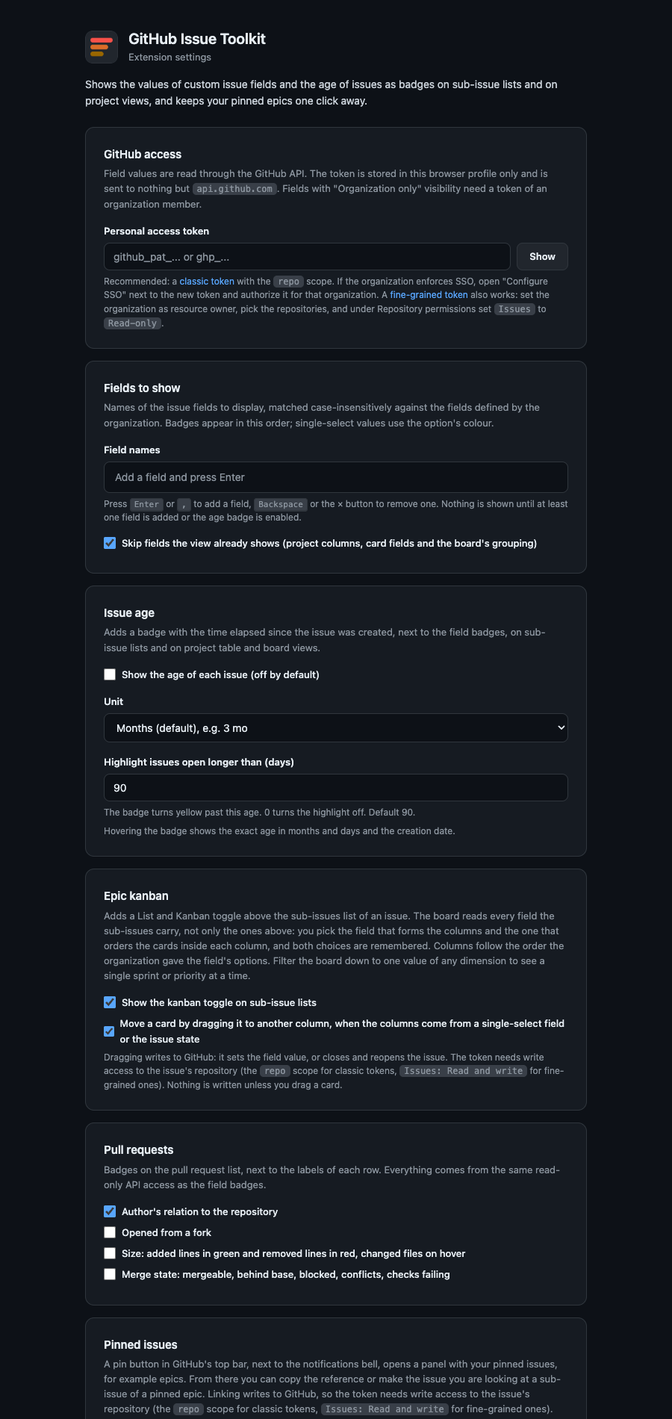
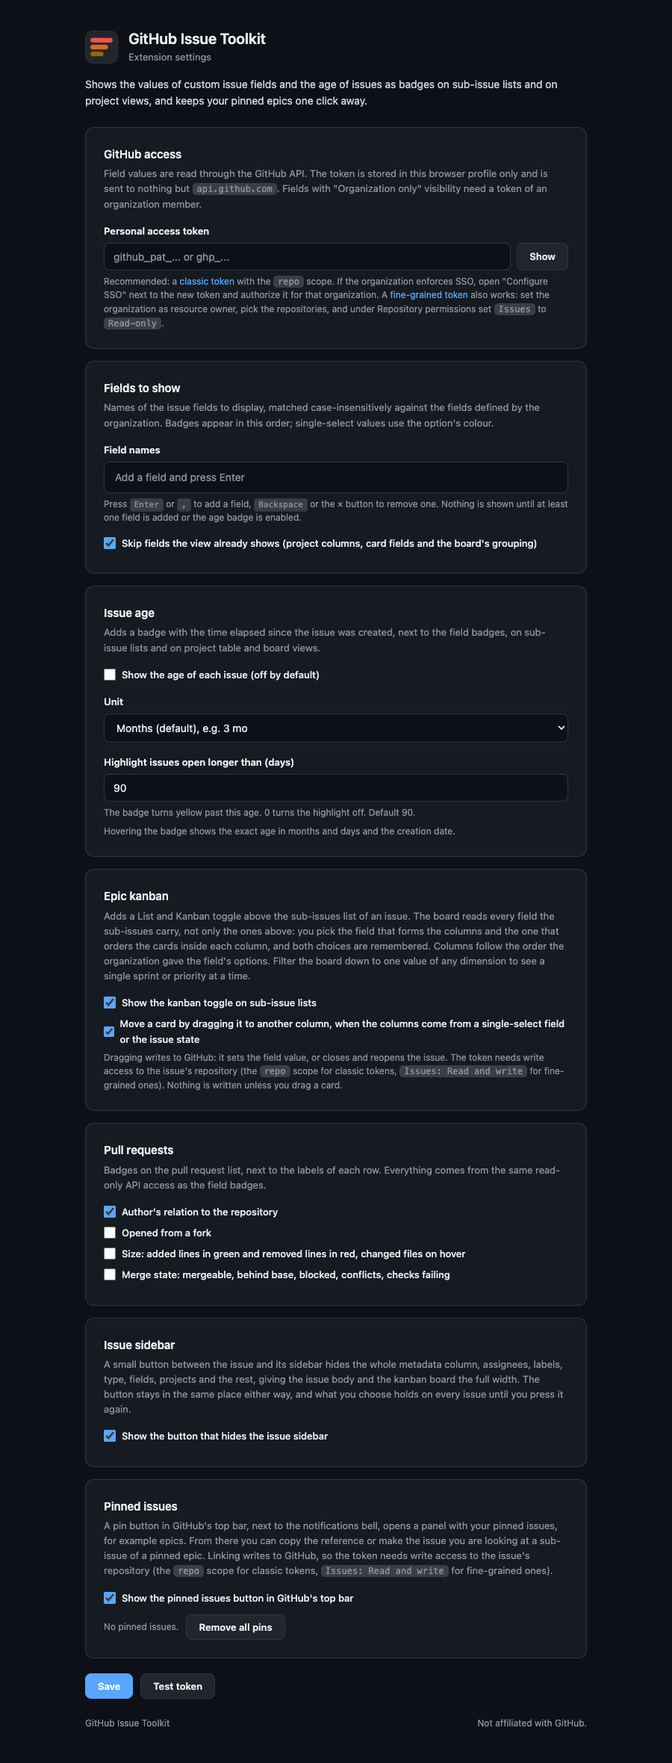
feat(sidebar): a button that hides the issue sidebar
An issue's metadata column is 296 pixels of assignees, labels, type, ten custom fields and projects, and it is in the way when the issue itself is what you came to read, all the more with a kanban board under it. A chevron in the gutter between the two folds it away, and folds it back, on every issue until you say otherwise.

- Insert a rail between GitHub's content area and its metadata column, both flex items of one row, so the button keeps its place whether the sidebar is there or not.
- Hide the column with `display: none`, which is what GitHub itself does when its artifacts panel opens, and let its content area grow into the space on its own.
- Remember the choice in `chrome.storage.local`: every issue and every tab opens the way you left it.
- Leave the narrow layout alone, where GitHub already stacks the sidebar under the issue and folding it away would gain nothing, and follow the window across a resize.
- Add an Issue sidebar card to the settings page, on by default.
- Raise the height the settings screenshots are rendered at to 2360, since the page has outgrown 1900 and the last cards were cut off.

Changed region(s): [[0.1244, 0.0, 0.84, 1.0]]

diff --git a/content.js b/content.js
@@ -10,7 +10,7 @@
   const pending = new Set();
   let scheduled = null;
   let noticeShown = false;
-  let settings = { ageEnabled: false, ageUnit: "months", ageWarnDays: 90, pinsEnabled: true, skipShownFields: true, prAssociation: true, prFork: false, prSize: false, prMergeState: false, kanbanEnabled: true, kanbanDrag: true };
+  let settings = { ageEnabled: false, ageUnit: "months", ageWarnDays: 90, pinsEnabled: true, skipShownFields: true, prAssociation: true, prFork: false, prSize: false, prMergeState: false, kanbanEnabled: true, kanbanDrag: true, sidebarToggle: true };
   const prCache = new Map(); // "owner/repo!n" -> { at, info }
   const prPending = new Set();
   let pins = [];
@@ -302,6 +302,7 @@
     scheduled = null;
     syncPanel();
     syncKanban();
+    syncSidebar();
     scanPulls().catch((err) => console.warn("[github-issue-toolkit]", err));
     const rows = collectRows();
     if (!rows.length) return;
@@ -1197,6 +1198,78 @@
   }
 
   // ---------------------------------------------------------------------------
+  // Issue sidebar: a button that hides the metadata column
+  // ---------------------------------------------------------------------------
+
+  // The metadata column of the issue page, and the flex row holding it next to the issue itself.
+  const SIDEBAR_COLUMN = '[data-testid="issue-viewer-metadata-container"]';
+  const CHEVRON_RIGHT = "M6.22 3.22a.75.75 0 0 1 1.06 0l4.25 4.25a.75.75 0 0 1 0 1.06l-4.25 4.25a.751.751 0 0 1-1.042-.018.751.751 0 0 1-.018-1.042L9.94 8 6.22 4.28a.75.75 0 0 1 0-1.06Z";
+  const CHEVRON_LEFT = "M9.78 12.78a.75.75 0 0 1-1.06 0L4.47 8.53a.75.75 0 0 1 0-1.06l4.25-4.25a.751.751 0 0 1 1.042.018.751.751 0 0 1 .018 1.042L6.06 8l3.72 3.72a.75.75 0 0 1 0 1.06Z";
+
+  let sidebarCollapsed = false;
+  let railParts = null;
+
+  function chevronIcon(collapsed) {
+    const svg = document.createElementNS("http://www.w3.org/2000/svg", "svg");
+    svg.setAttribute("viewBox", "0 0 16 16");
+    svg.setAttribute("aria-hidden", "true");
+    svg.setAttribute("class", "gsf-sidebar-chevron");
+    const path = document.createElementNS("http://www.w3.org/2000/svg", "path");
+    path.setAttribute("d", collapsed ? CHEVRON_LEFT : CHEVRON_RIGHT);
+    svg.appendChild(path);
+    return svg;
+  }
+
+  function buildRail() {
+    const rail = document.createElement("div");
+    rail.className = "gsf-sidebar-rail";
+    const button = document.createElement("button");
+    button.type = "button";
+    button.className = "gsf-sidebar-toggle";
+    button.addEventListener("click", () => {
+      sidebarCollapsed = !sidebarCollapsed;
+      api.storage.local.set({ sidebarCollapsed });
+      syncSidebar();
+    });
+    rail.appendChild(button);
+    railParts = { rail, button };
+    return rail;
+  }
+
+  function renderRail(sidebar) {
+    const { button } = railParts;
+    button.textContent = "";
+    button.appendChild(chevronIcon(sidebarCollapsed));
+    button.title = sidebarCollapsed ? "Show the issue sidebar" : "Hide the issue sidebar";
+    button.setAttribute("aria-label", button.title);
+    button.setAttribute("aria-expanded", String(!sidebarCollapsed));
+    sidebar.classList.toggle("gsf-sidebar-hidden", sidebarCollapsed);
+  }
+
+  function unmountRail(sidebar) {
+    if (railParts && railParts.rail.isConnected) railParts.rail.remove();
+    if (sidebar) sidebar.classList.remove("gsf-sidebar-hidden");
+  }
+
+  // The button lives in a rail of its own between the issue and the sidebar, so it stays in the same place
+  // whether the sidebar is there or not. Only the wide layout has the two side by side; stacked, it is skipped.
+  function syncSidebar() {
+    const sidebar = refFromPath(location.pathname) ? document.querySelector(SIDEBAR_COLUMN) : null;
+    if (!settings.sidebarToggle || !sidebar || !sidebar.parentElement) {
+      unmountRail(sidebar || document.querySelector(SIDEBAR_COLUMN));
+      return;
+    }
+    const row = getComputedStyle(sidebar.parentElement);
+    if (row.display !== "flex" || row.flexDirection !== "row") {
+      unmountRail(sidebar);
+      return;
+    }
+    if (!railParts) buildRail();
+    if (railParts.rail.nextElementSibling !== sidebar) sidebar.parentElement.insertBefore(railParts.rail, sidebar);
+    renderRail(sidebar);
+  }
+
+  // ---------------------------------------------------------------------------
   // Pinned issues panel
   // ---------------------------------------------------------------------------
 
@@ -1669,7 +1742,7 @@
   }
 
   // Everything this extension adds to the page, so its own mutations never schedule another scan.
-  const OURS = ["gsf-badge", "gsf-badges", "gsf-notice", "gsf-pins", "gsf-pins-header-btn", "gsf-kanban", "gsf-kanban-bar"];
+  const OURS = ["gsf-badge", "gsf-badges", "gsf-notice", "gsf-pins", "gsf-pins-header-btn", "gsf-kanban", "gsf-kanban-bar", "gsf-sidebar-rail"];
   const OURS_SELECTOR = OURS.map((name) => `.${name}`).join(", ");
 
   const observer = new MutationObserver((mutations) => {
@@ -1686,6 +1759,7 @@
   });
   observer.observe(document.documentElement, { childList: true, subtree: true });
   window.addEventListener("popstate", schedule);
+  window.addEventListener("resize", schedule);
 
   api.storage.onChanged.addListener((changes, area) => {
     if (area !== "local") return;
@@ -1700,6 +1774,11 @@
       if (changes.ageUnit) settings.ageUnit = changes.ageUnit.newValue || "months";
       clearBadges();
       schedule();
+    }
+    if (changes.sidebarToggle || changes.sidebarCollapsed) {
+      if (changes.sidebarToggle) settings.sidebarToggle = changes.sidebarToggle.newValue !== false;
+      if (changes.sidebarCollapsed) sidebarCollapsed = changes.sidebarCollapsed.newValue === true;
+      syncSidebar();
     }
     if (changes.kanbanEnabled || changes.kanbanDrag) {
       if (changes.kanbanEnabled) settings.kanbanEnabled = changes.kanbanEnabled.newValue !== false;
@@ -1724,7 +1803,7 @@
     }
   });
 
-  api.storage.local.get(["ageEnabled", "ageUnit", "ageWarnDays", "pinsEnabled", "skipShownFields", "prAssociation", "prFork", "prSize", "prMergeState", "pins", "kanbanEnabled", "kanbanDrag", "kanban"]).then((stored) => {
+  api.storage.local.get(["ageEnabled", "ageUnit", "ageWarnDays", "pinsEnabled", "skipShownFields", "prAssociation", "prFork", "prSize", "prMergeState", "pins", "kanbanEnabled", "kanbanDrag", "kanban", "sidebarToggle", "sidebarCollapsed"]).then((stored) => {
     settings.ageWarnDays = Number.isFinite(Number(stored.ageWarnDays)) && stored.ageWarnDays !== undefined ? Number(stored.ageWarnDays) : 90;
     settings.skipShownFields = stored.skipShownFields !== false;
     settings.prAssociation = stored.prAssociation !== false;
@@ -1736,6 +1815,8 @@
     settings.pinsEnabled = stored.pinsEnabled !== false;
     settings.kanbanEnabled = stored.kanbanEnabled !== false;
     settings.kanbanDrag = stored.kanbanDrag !== false;
+    settings.sidebarToggle = stored.sidebarToggle !== false;
+    sidebarCollapsed = stored.sidebarCollapsed === true;
     kanban = { ...kanban, ...(stored.kanban || {}) };
     pins = Array.isArray(stored.pins) ? stored.pins : [];
     lastHref = null;

diff --git a/docs/index.html b/docs/index.html
@@ -374,6 +374,7 @@
         <div class="card"><h3>Issue age, if you want it</h3><p>An optional gray badge shows how long ago each issue was created, in months, weeks or days, and turns yellow once an issue has been open longer than a threshold you set, 90 days by default. Off by default, one checkbox in the settings.</p></div>
         <div class="card"><h3>Pull request badges</h3><p>On the pull request list and on Projects views that contain pull requests: whether the author is a first-time contributor, external, a contributor, a collaborator, a member or a bot, plus optional badges for forks, size and merge state.</p></div>
         <div class="card"><h3>Epics as a board</h3><p>An issue with sub-issues gets a List and Kanban toggle. The board groups the sub-issues by any field they carry, orders each column by another, and filters everything down to one value of a third. Drag a card to another column and the field value, or the issue state, is written back to GitHub.</p></div>
+        <div class="card"><h3>Sidebar out of the way</h3><p>A chevron in the gutter hides an issue's whole metadata column, and the issue body and the board take the width. It holds on every issue until you press it again.</p></div>
         <div class="card"><h3>Pinned epics</h3><p>A pin button in GitHub's top bar keeps your epics one click away: copy their reference, or make the issue you are looking at a sub-issue of one. Optional as well.</p></div>
         <div class="card"><h3>Clickable</h3><p>Each badge links to the repository's issue search filtered by that field value, the same way GitHub's own field badges do.</p></div>
         <div class="card"><h3>Looks native</h3><p>Badges reuse GitHub's own colour tokens, so they match light and dark themes and every colour blindness setting GitHub offers.</p></div>
@@ -568,7 +569,7 @@
   <section id="settings">
     <div class="wrap">
       <h2>Settings</h2>
-      <p class="muted">The token and the fields to show are the two essentials; the age badge, the pull request badges, the epic kanban toggle and the pinned issues button are optional extras with their own cards. Each field is a chip. Press <kbd>Enter</kbd> or <kbd>,</kbd> to add one, <kbd>Backspace</kbd> or the × button to remove one. Names are matched case-insensitively against the fields your organization defines, and badges appear in the order of the chips. Nothing is shown until at least one field is added or the age badge is enabled.</p>
+      <p class="muted">The token and the fields to show are the two essentials; the age badge, the pull request badges, the epic kanban toggle, the sidebar button and the pinned issues button are optional extras with their own cards. Each field is a chip. Press <kbd>Enter</kbd> or <kbd>,</kbd> to add one, <kbd>Backspace</kbd> or the × button to remove one. Names are matched case-insensitively against the fields your organization defines, and badges appear in the order of the chips. Nothing is shown until at least one field is added or the age badge is enabled.</p>
       <figure>
         <img class="only-light" src="settings-light.png" alt="The settings page: token input and the field names chip box">
         <img class="only-dark" src="settings-dark.png" alt="The settings page in dark mode: token input and the field names chip box">
@@ -610,6 +611,7 @@
       <details><summary>Can I move a card on the kanban board?</summary><p>Yes, when the columns come from a single-select field or from the issue state: dragging a card writes the new field value, or closes and reopens the issue, through the GitHub API. Dropping it in the "No <em>field</em>" column clears the value. Columns made of types or assignees are not drop targets, and cards there cannot be dragged. Dragging needs a token with write access; it can be switched off in the settings, and nothing is ever written unless you drag.</p></details>
       <details><summary>Can I see only one sprint, or only the P1 issues?</summary><p>Yes. The Filter control keeps one value of any dimension, the same ones the columns can be made of, and the count in the toolbar says how many of the epic's sub-issues are left. Filtering happens in the page, so the columns stay as they are and switching back costs nothing.</p></details>
       <details><summary>The kanban board says the epic has more sub-issues than it shows.</summary><p>The board loads up to 500 sub-issues, in pages of 100. Beyond that the count in the toolbar reads "500 of 640" and the rest is left out.</p></details>
+      <details><summary>Where does the sidebar go when I hide it?</summary><p>Nowhere: the extension sets <code>display: none</code> on GitHub's metadata column, the same thing GitHub does when its own artifacts panel opens, and its content area grows into the space by itself. The chevron stays in the gutter, so pressing it again brings the sidebar straight back. Nothing is changed on GitHub's side and nothing is sent anywhere.</p></details>
       <details><summary>Does linking need extra permissions?</summary><p>Yes. Making an issue a sub-issue of a pinned epic writes to GitHub, so the token needs write access to the issue's repository: the <code>repo</code> scope on a classic token, or <code>Issues: Read and write</code> on a fine-grained one. Badges alone work with read-only access.</p></details>
       <details><summary>Sub-issues live in several repositories. Does that work?</summary><p>Yes. Rows are grouped by repository and fetched in one query. Each badge links to the search in its own repository.</p></details>
       <details><summary>A field shows no badge on some rows.</summary><p>Those issues simply have no value for that field. Check the field name on the settings page matches the organization's field name; matching is case-insensitive but the full name must match.</p></details>

diff --git a/options.js b/options.js
@@ -10,6 +10,7 @@ const pinsEnabledInput = document.getElementById("pins-enabled");
 const skipShownInput = document.getElementById("skip-shown");
 const kanbanEnabledInput = document.getElementById("kanban-enabled");
 const kanbanDragInput = document.getElementById("kanban-drag");
+const sidebarToggleInput = document.getElementById("sidebar-toggle");
 const prInputs = {
   prAssociation: document.getElementById("pr-association"),
   prFork: document.getElementById("pr-fork"),
@@ -100,7 +101,7 @@ if (hasChrome) {
     setStatus(ok ? "Access to github.com granted." : "Access was not granted.", ok);
     refreshAccess();
   });
-  api.storage.local.get(["token", "fields", "ageEnabled", "ageUnit", "ageWarnDays", "pinsEnabled", "skipShownFields", "kanbanEnabled", "kanbanDrag", "prAssociation", "prFork", "prSize", "prMergeState", "pins"]).then((stored) => {
+  api.storage.local.get(["token", "fields", "ageEnabled", "ageUnit", "ageWarnDays", "pinsEnabled", "skipShownFields", "kanbanEnabled", "kanbanDrag", "sidebarToggle", "prAssociation", "prFork", "prSize", "prMergeState", "pins"]).then((stored) => {
     tokenInput.value = stored.token || "";
     fields = parseFields(stored.fields);
     renderChips();
@@ -109,6 +110,7 @@ if (hasChrome) {
     skipShownInput.checked = stored.skipShownFields !== false;
     kanbanEnabledInput.checked = stored.kanbanEnabled !== false;
     kanbanDragInput.checked = stored.kanbanDrag !== false;
+    sidebarToggleInput.checked = stored.sidebarToggle !== false;
     prInputs.prAssociation.checked = stored.prAssociation !== false;
     prInputs.prFork.checked = stored.prFork === true;
     prInputs.prSize.checked = stored.prSize === true;
@@ -132,6 +134,7 @@ if (hasChrome) {
   skipShownInput.checked = true;
   kanbanEnabledInput.checked = true;
   kanbanDragInput.checked = true;
+  sidebarToggleInput.checked = true;
   prInputs.prAssociation.checked = true;
   ageWarn.value = 90;
 }
@@ -147,7 +150,7 @@ document.getElementById("save").addEventListener("click", async () => {
   const token = tokenInput.value.trim();
   const fieldList = fields.join(", ");
   if (!hasChrome) return setStatus("Preview mode: nothing saved.", false);
-  await api.storage.local.set({ token, fields: fieldList, ageEnabled: ageEnabled.checked, ageUnit: ageUnit.value, ageWarnDays: Math.max(0, parseInt(ageWarn.value, 10) || 0), pinsEnabled: pinsEnabledInput.checked, skipShownFields: skipShownInput.checked, kanbanEnabled: kanbanEnabledInput.checked, kanbanDrag: kanbanDragInput.checked, prAssociation: prInputs.prAssociation.checked, prFork: prInputs.prFork.checked, prSize: prInputs.prSize.checked, prMergeState: prInputs.prMergeState.checked });
+  await api.storage.local.set({ token, fields: fieldList, ageEnabled: ageEnabled.checked, ageUnit: ageUnit.value, ageWarnDays: Math.max(0, parseInt(ageWarn.value, 10) || 0), pinsEnabled: pinsEnabledInput.checked, skipShownFields: skipShownInput.checked, kanbanEnabled: kanbanEnabledInput.checked, kanbanDrag: kanbanDragInput.checked, sidebarToggle: sidebarToggleInput.checked, prAssociation: prInputs.prAssociation.checked, prFork: prInputs.prFork.checked, prSize: prInputs.prSize.checked, prMergeState: prInputs.prMergeState.checked });
   if (!token) setStatus("Saved without a token. Badges need one.", false);
   else if (!fields.length && !ageEnabled.checked) setStatus("Saved without any field. Add a field or enable the age badge to show badges.", false);
   else setStatus("Saved. Reload the GitHub tab if badges do not appear.", true);

diff --git a/options.html b/options.html
@@ -211,6 +211,12 @@
     </section>
 
     <section class="card">
+      <h2>Issue sidebar</h2>
+      <p class="desc">A small button between the issue and its sidebar hides the whole metadata column, assignees, labels, type, fields, projects and the rest, giving the issue body and the kanban board the full width. The button stays in the same place either way, and what you choose holds on every issue until you press it again.</p>
+      <label class="check"><input id="sidebar-toggle" type="checkbox"> Show the button that hides the issue sidebar</label>
+    </section>
+
+    <section class="card">
       <h2>Pinned issues</h2>
       <p class="desc">A pin button in GitHub's top bar, next to the notifications bell, opens a panel with your pinned issues, for example epics. From there you can copy the reference or make the issue you are looking at a sub-issue of a pinned epic. Linking writes to GitHub, so the token needs write access to the issue's repository (the <code>repo</code> scope for classic tokens, <code>Issues: Read and write</code> for fine-grained ones).</p>
       <label class="check"><input id="pins-enabled" type="checkbox"> Show the pinned issues button in GitHub's top bar</label>

diff --git a/content.css b/content.css
@@ -502,3 +502,38 @@
 }
 .gsf-kanban-badges .gsf-badge { margin-right: 0; }
 .gsf-kanban-card:hover .gsf-badge { text-decoration: none !important; }
+
+/* Issue sidebar: the rail holding the collapse button, and the hidden metadata column */
+.gsf-sidebar-hidden { display: none !important; }
+.gsf-sidebar-rail {
+  flex: 0 0 auto;
+  align-self: stretch;
+  width: 24px;
+  /* Sit in the gutter GitHub already leaves between the issue and its sidebar, rather than widening it. */
+  margin-left: calc(-1 * var(--stack-gap-spacious, 24px));
+}
+.gsf-sidebar-toggle {
+  position: sticky;
+  top: 16px;
+  display: flex;
+  align-items: center;
+  justify-content: center;
+  width: 24px;
+  height: 24px;
+  padding: 0;
+  border: 1px solid transparent;
+  border-radius: 6px;
+  background: none;
+  color: var(--fgColor-muted);
+  cursor: pointer;
+}
+.gsf-sidebar-toggle:hover {
+  border-color: var(--borderColor-default);
+  background: var(--button-default-bgColor-hover, var(--bgColor-muted));
+  color: var(--fgColor-default);
+}
+.gsf-sidebar-chevron {
+  width: 16px;
+  height: 16px;
+  fill: currentColor;
+}

diff --git a/scripts/render-settings.py b/scripts/render-settings.py
@@ -13,7 +13,7 @@ import tempfile
 from pathlib import Path
 
 ROOT = Path(__file__).resolve().parent.parent
-HEIGHT = 1900
+HEIGHT = 2360
 
 
 def main() -> None:

diff --git a/README.md b/README.md
@@ -91,6 +91,7 @@ Illustrations of an invented repository, rendered from the documentation site wi
 - An optional **age** badge shows how old each issue is, in months (`3 mo`), weeks or days, and turns yellow once an issue has been open longer than a threshold you choose (90 days by default). Off by default.
 - **Pull request badges** on the pull request list and on Projects views that contain pull requests: the author's relation to the repository (first-time contributor, external, contributor, collaborator, member, bot) on by default, plus optional badges for forks, size (added lines in green, removed in red) and merge state.
 - An **epic kanban**: above the sub-issues list of an issue, a List and Kanban toggle draws those sub-issues as a board. The columns come from any field the sub-issues carry (or their state, type or assignee), the cards inside a column are ordered by another, and a filter keeps one value of a third; every choice is remembered. Dragging a card to another column writes the field value back to GitHub, or closes and reopens the issue. Both the board and the dragging can be switched off in the settings.
+- A button that **hides the issue sidebar**: one press folds away the whole metadata column, assignees, labels, type, fields, projects and the rest, and gives the issue body and the board that width. The button sits in the gutter between the two, so it does not move when the sidebar goes, and what you chose holds on every issue. Can be switched off in the settings.
 - A **Pinned issues** button in GitHub's top bar: pin epics, copy their reference, or make the issue you are looking at a sub-issue of a pinned epic with one click. Can be switched off in the settings.
 - Any field type works: single-select, multi-select, text, number, date.
 - Choose which fields to show and in what order; nothing is shown until you pick at least one field or enable the age badge.
@@ -133,7 +134,7 @@ Minimum version: Firefox 140, required by the `data_collection_permissions` mani
    - **Fine-grained**: https://github.com/settings/personal-access-tokens/new. Set the organization as resource owner, pick the repositories, and under Repository permissions set `Issues` to `Read-only` (or `Read and write` if you want to link issues to pinned epics from the panel, or drag cards on the kanban board).
 2. Paste the token on the settings page, click **Test token**, then **Save**.
 3. Add the **Field names** to show: each field is a chip, press Enter or comma to add one, Backspace or the × button to remove one. Names are matched case-insensitively. No badges appear until at least one field is added or the age badge is enabled.
-4. Optionally enable the **Issue age** badge (off by default), pick its unit and the age after which it turns yellow (90 days by default), choose which **Pull request** badges you want (author relation on by default; fork, size and merge state off), and decide whether you want the **Epic kanban** toggle, dragging cards on it, and the **Pinned issues** button in GitHub's top bar (all on by default).
+4. Optionally enable the **Issue age** badge (off by default), pick its unit and the age after which it turns yellow (90 days by default), choose which **Pull request** badges you want (author relation on by default; fork, size and merge state off), and decide whether you want the **Epic kanban** toggle, dragging cards on it, the button that hides the **Issue sidebar**, and the **Pinned issues** button in GitHub's top bar (all on by default).
 5. Open any issue with sub-issues, or a project view such as `https://github.com/orgs/<org>/projects/<n>/views/<v>`.
 
 ### Epic kanban
@@ -147,6 +148,14 @@ An issue that has sub-issues gets a **List** and **Kanban** toggle above the lis
 - Each card shows the issue state, its number, its assignees, the title and the badges for your configured fields, the issue type and the age when enabled. The field that forms the columns is not repeated on the cards.
 - Both choices and the toggle itself are remembered across issues and tabs. Up to 500 sub-issues are loaded, in pages of 100; beyond that the toolbar count says how many of the total are shown.
 - Apart from a card you drag yourself, the board only reads. A change made elsewhere shows up once the five-minute cache expires or the page is reloaded.
+
+### Issue sidebar
+
+A small chevron in the gutter between an issue and its sidebar hides the metadata column: assignees, labels, type, the custom fields, projects, milestone, everything. The issue body and the kanban board take the freed width, GitHub's own layout does the reflowing, and the button stays where it was so pressing it again brings the sidebar back.
+
+- The choice holds on every issue and in every tab until you press the button again.
+- On a narrow window, where GitHub already stacks the sidebar under the issue instead of beside it, the button is not shown; there is nothing to gain there.
+- The whole thing can be switched off on the settings page.
 
 ### Pinned issues
 
@@ -168,6 +177,7 @@ The token is stored with `chrome.storage.local` on your device and is only ever 
 - `background.js` groups the issues by repository and runs one GraphQL query per batch of 60 issues using `Issue.issueFieldValues` and `createdAt`, then returns only the configured fields. Without a token or without anything to show it answers with a hint that `content.js` shows above the sub-issues list or in the pins panel. For pull requests it reads `authorAssociation`, whether the head is a fork, additions, deletions, changed files and `mergeStateStatus`. It also resolves pinned issues (title, type) and runs the `addSubIssue` mutation. It runs as a service worker on Chromium and as an event page on Firefox.
 - `content.js` renders a badge per value after the issue type badge (or after the issue number in project tables, under the title on board cards), plus the age badge, styled by `content.css` with GitHub's colour tokens. It also renders the pinned issues panel; the current issue is taken from the page URL or from the `issue=owner|repo|number` parameter GitHub adds when a project side panel is open.
 - The kanban has its own path: `background.js` reads the open issue's `subIssues` connection, paginated by 100 up to 500 sub-issues, returning every field value each one carries plus its state, type, assignees and creation date. `content.js` groups, orders and filters those in the page and draws the board in place of the list, so changing any of the three redraws without another request. A dropped card is the exception: it writes through `createIssueFieldValue`, `deleteIssueFieldValue`, `closeIssue` or `reopenIssue`, updating the board first and reverting it if the write fails. The result is cached per epic like everything else.
+- The sidebar button is a small rail `content.js` inserts between GitHub's content area and its metadata column, both flex items of the same row. Collapsing sets `display: none` on the metadata column, which is what GitHub itself does when its artifacts panel opens, and its content area grows into the space on its own.
 - `options.html` / `options.js` provide the settings page, including the one-time site-access prompt Firefox needs.
 - All scripts start with `const api = browser ?? chrome`, so the same code runs on both engines.
 

diff --git a/PRIVACY.md b/PRIVACY.md
@@ -6,7 +6,7 @@ GitHub Issue Toolkit is a browser extension that displays the values of GitHub c
 
 - **GitHub personal access token.** You enter it on the extension's settings page. It is stored with `chrome.storage.local`, on your device only, and is sent exclusively to `https://api.github.com/graphql` in the `Authorization` header. It is never sent anywhere else. All requests read data (issue field values, creation dates, the sub-issues of an issue you view as a board, and the title and type of issues you pin), with two exceptions: when you click **Link** in the pinned issues panel, the extension makes the current issue a sub-issue of the pinned one (`addSubIssue`), and when you drag a card to another column on the kanban board, it writes that column's value to the issue (`createIssueFieldValue`, `deleteIssueFieldValue`) or closes and reopens the issue (`closeIssue`, `reopenIssue`). Nothing is written without that click or that drag.
 - **Issue and pull request references.** For the issues and pull requests visible on the page you are viewing (sub-issue lists, project tables and boards, pull request lists), the extension sends the repository owner, repository name and number to the GitHub API to fetch the field values, creation dates, and for pull requests the author's relation to the repository, fork origin, size and merge state. With the kanban board open it sends the owner, name and number of the issue you are looking at to read its sub-issues: their numbers, titles, states, types, assignees, creation dates and field values. Results are kept in memory for a few minutes and are discarded when the tab closes.
-- **Settings and pins.** Your list of field names, the age badge, pull request badge, kanban and pinned issues preferences (including the field the board groups by and the one it orders by), and the issues you pin (repository, number, title, type) are stored with `chrome.storage.local` on your device.
+- **Settings and pins.** Your list of field names, the age badge, pull request badge, kanban, sidebar and pinned issues preferences (including the field the board groups by, the one it orders by, and whether the issue sidebar is folded away), and the issues you pin (repository, number, title, type) are stored with `chrome.storage.local` on your device.
 
 ## Data the extension does not handle
 
@@ -18,7 +18,7 @@ GitHub Issue Toolkit is a browser extension that displays the values of GitHub c
 
 - `storage` - saves the token and the field list locally.
 - Host permission `https://api.github.com/*` - reads issue field values, creation dates, the sub-issues behind the kanban board and pinned issue details through the GitHub GraphQL API, and performs the sub-issue link you request from the pinned issues panel and the card move you perform by dragging.
-- Content script on `https://github.com/*` - finds sub-issue rows, project table rows, board cards and pull request rows, renders the badges and the kanban board, and adds the pinned issues button to GitHub's header.
+- Content script on `https://github.com/*` - finds sub-issue rows, project table rows, board cards and pull request rows, renders the badges and the kanban board, adds the button that hides the issue sidebar, and adds the pinned issues button to GitHub's header.
 
 On Firefox, access to `github.com` and `api.github.com` is granted by you after installation (the settings page asks for it once); the extension does nothing until then.
 

diff --git a/CHANGELOG.md b/CHANGELOG.md
@@ -7,6 +7,7 @@ All notable changes to this project are documented here. The format follows [Kee
 ### Added
 
 - Epic kanban: a List and Kanban toggle above the sub-issues list of an issue draws those sub-issues as a board. The columns come from any field the sub-issues carry, or from their state, type or assignee, and follow the order the organization gave a single-select field's options; the cards inside a column are ordered by the field, number, creation date, title, state, type or assignee you pick, in either direction. Both choices and the toggle are remembered. The board reads up to 500 sub-issues. On by default, one checkbox in the settings turns it off.
+- Issue sidebar toggle: a chevron in the gutter between an issue and its metadata column hides that column, assignees, labels, type, fields, projects and the rest, leaving the width to the issue body and the board. The button keeps its place either way, the choice holds on every issue and in every tab, and it is not shown on a narrow window where GitHub stacks the sidebar anyway. On by default, one checkbox in the settings turns it off.
 - Kanban filter: one value of any of those same dimensions keeps only the matching sub-issues, and the toolbar count says how many of the epic are left. Filtering happens in the page, without another request.
 - Kanban drag and drop: a card dragged to another column writes the new value to GitHub when the columns come from a single-select field (`createIssueFieldValue`, or `deleteIssueFieldValue` for the "No field" column) or from the issue state (`closeIssue`, `reopenIssue`). The card moves first and returns to its column with the reason in the toolbar if the write fails, columns made of types or assignees are not drop targets, and a second checkbox in the settings turns dragging off. This is the only part of the board that writes, and it needs a token with write access.
 
